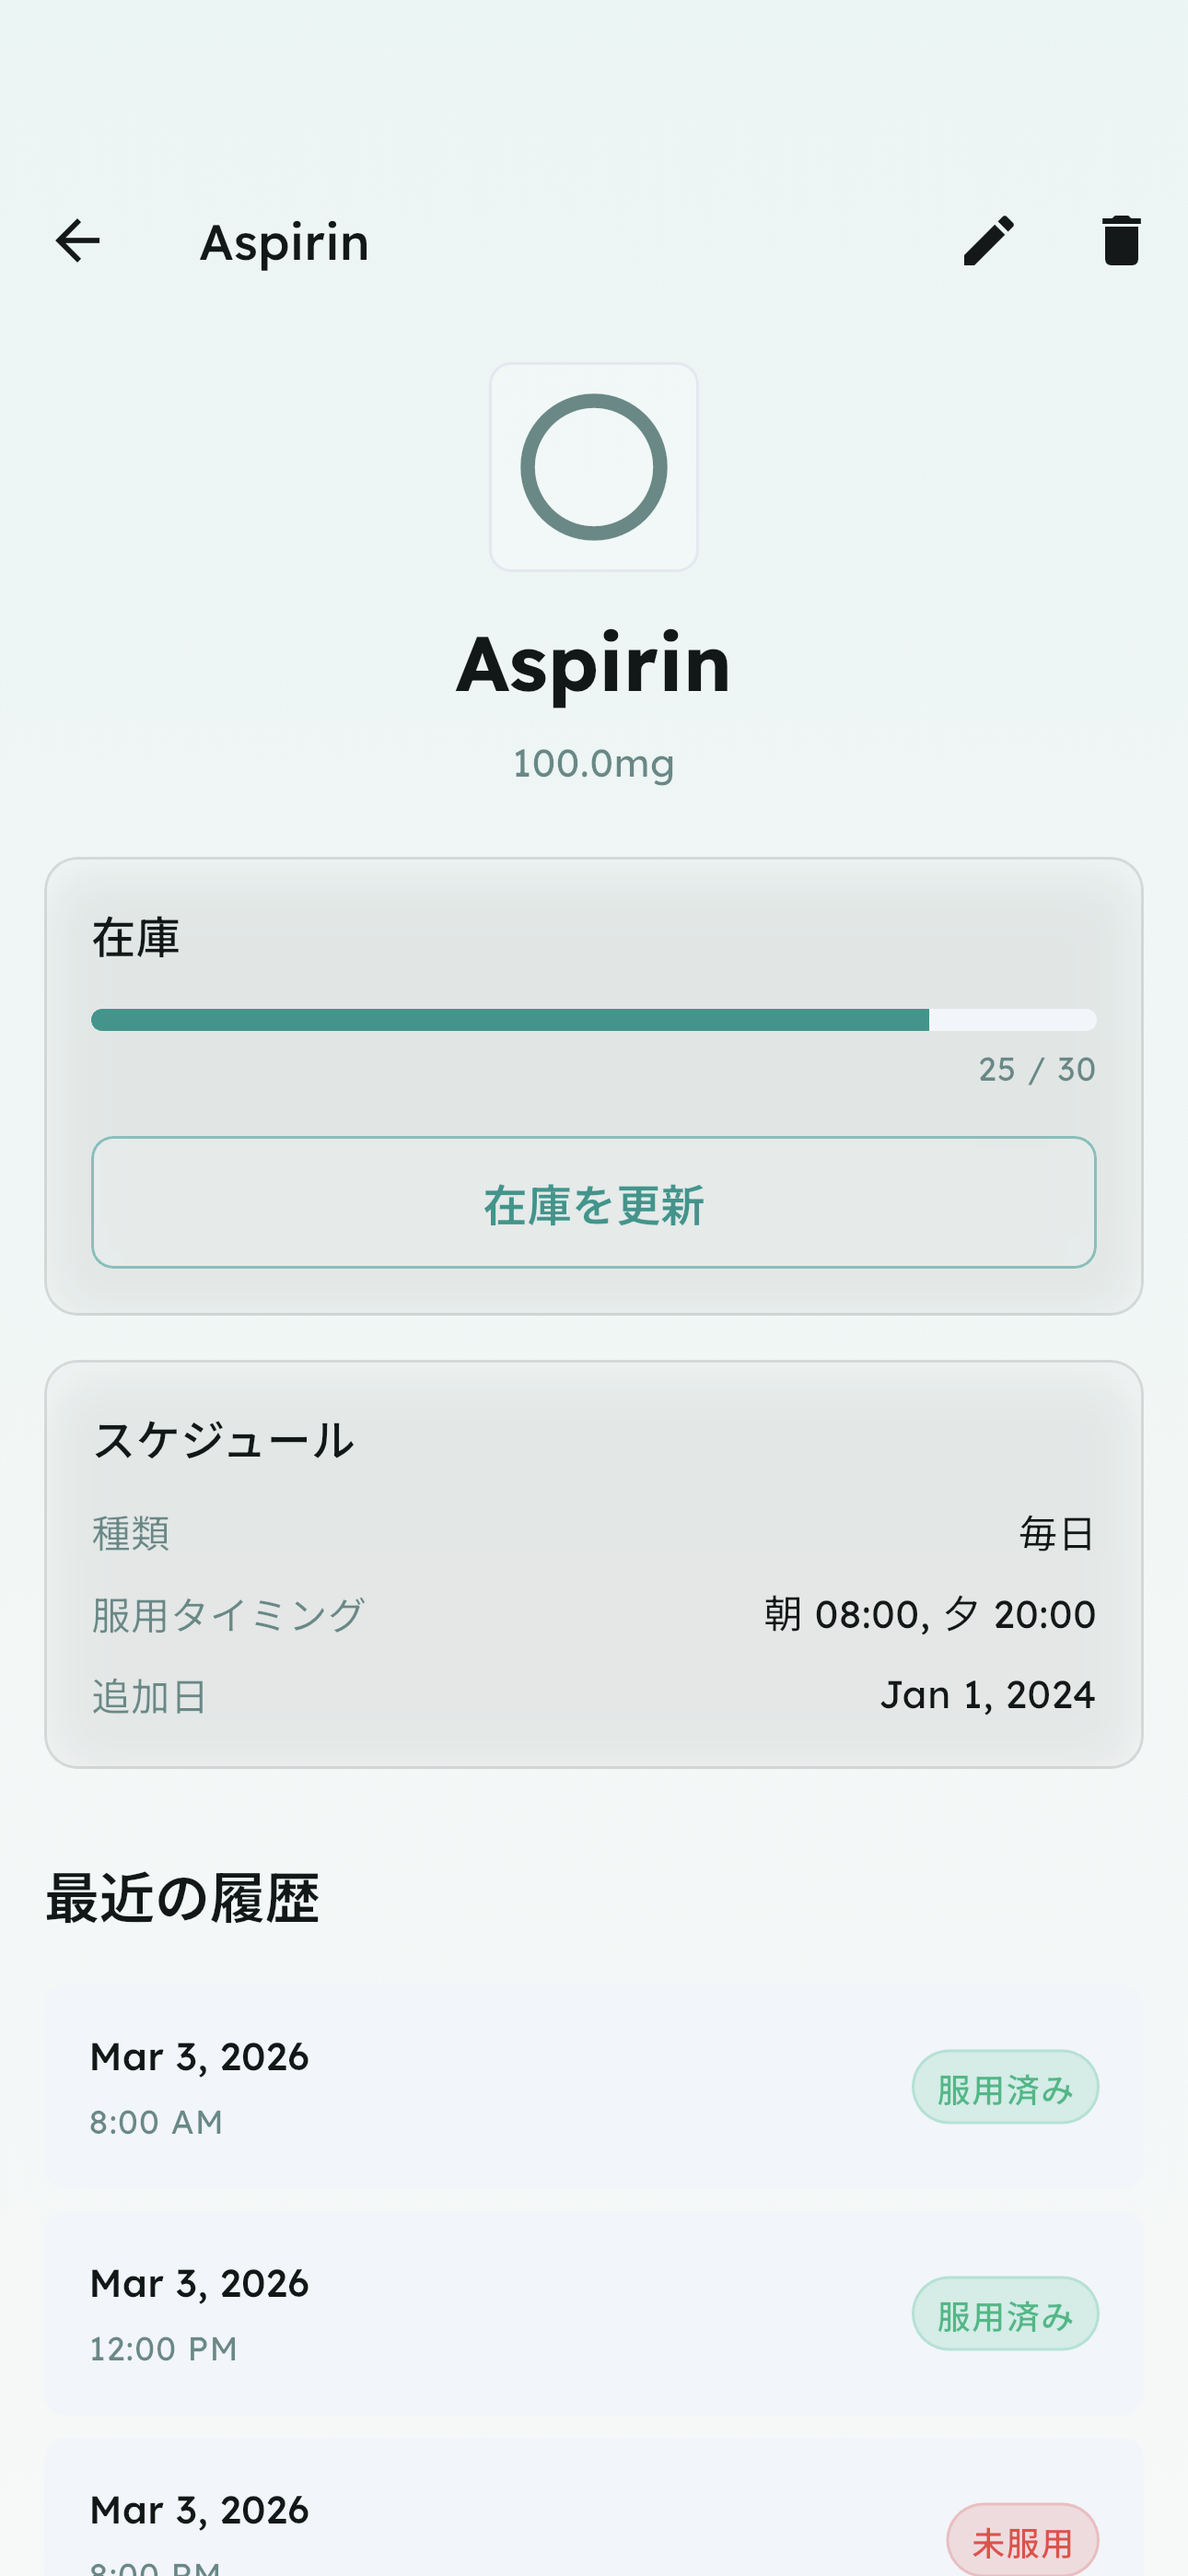
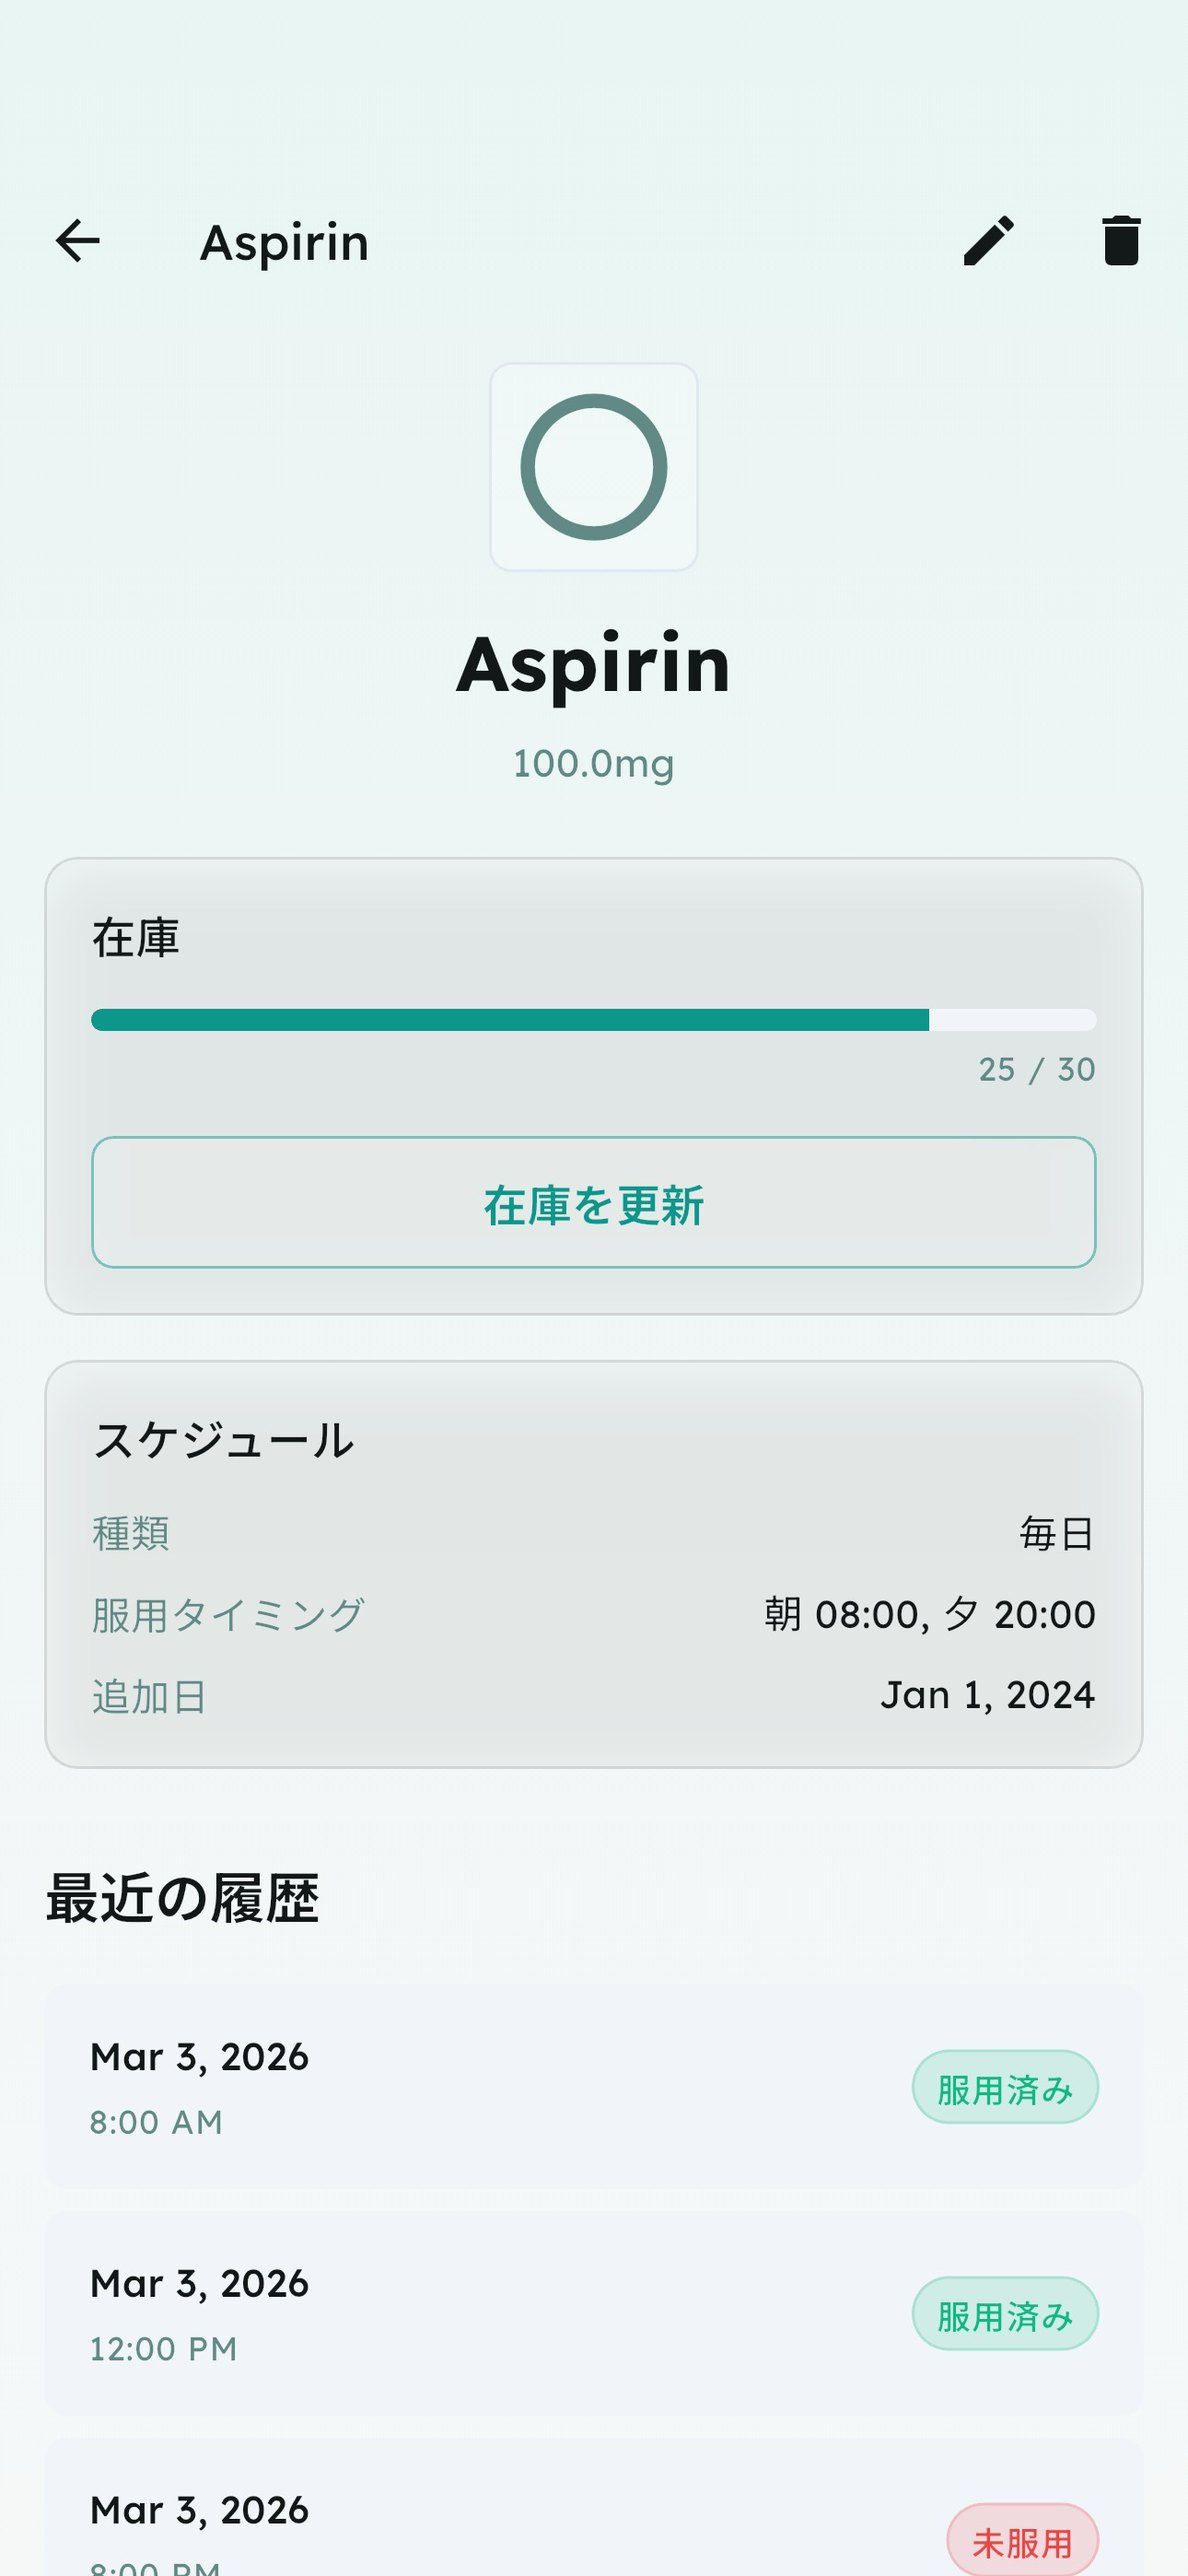
feat: flutter_timezone でデバイスタイムゾーン自動検出 + Riverpod state 修正
- TimezoneService.initialize() で flutter_timezone を使いデバイス TZ を検出・設定
  失敗時は UTC にフォールバック (graceful degradation)
- TimezoneSettings notifier を ref.watch → ref.read + ref.listen に変更
  無関係なプロフィール変更で notifier が再ビルドされるのを防止
- MedicationList: invalidateSelf() → _refreshState() に変更
  .future プロキシの runOnDispose が誤発火する Riverpod assertion を回避
- pubspec.yaml: flutter_timezone ^5.0.1 追加、バージョン 1.0.0+3 へ bump
- timezone_provider_test: ref.listen 挙動のテスト追加
- App Store スクリーンショット全8画面更新 + RGB 版追加

diff --git a/test/data/providers/timezone_provider_test.dart b/test/data/providers/timezone_provider_test.dart
@@ -1,6 +1,8 @@
 import 'package:flutter_riverpod/flutter_riverpod.dart';
 import 'package:flutter_test/flutter_test.dart';
 import 'package:kusuridoki/data/enums/timezone_mode.dart';
+import 'package:kusuridoki/data/models/user_profile.dart';
+import 'package:kusuridoki/data/providers/settings_provider.dart';
 import 'package:kusuridoki/data/providers/timezone_provider.dart';
 import 'package:timezone/data/latest.dart' as tz;
 import 'package:timezone/timezone.dart' as tz_lib;
@@ -107,4 +109,71 @@ void main() {
       expect(state.currentTimezone, 'Europe/Berlin');
     });
   });
+
+  group('TimezoneSettings tracks userSettings homeTimezone via ref.listen', () {
+    late ProviderContainer testContainer;
+
+    setUp(() async {
+      testContainer = ProviderContainer(
+        overrides: [userSettingsProvider.overrideWith(_FakeUserSettings.new)],
+      );
+      addTearDown(testContainer.dispose);
+      await testContainer.read(userSettingsProvider.future);
+    });
+
+    test('homeTimezone updates when profile changes, preserving travel mode state',
+        () async {
+      // Configure travel mode state
+      final notifier = testContainer.read(timezoneSettingsProvider.notifier);
+      notifier.toggleEnabled();
+      notifier.setMode(TimezoneMode.localTime);
+      notifier.setCurrentTimezone('Europe/Berlin');
+
+      var state = testContainer.read(timezoneSettingsProvider);
+      expect(state.homeTimezone, 'America/New_York');
+
+      // Update profile — only homeTimezone changes
+      await testContainer
+          .read(userSettingsProvider.notifier)
+          .updateProfile(const UserProfile(id: 'test', homeTimezone: 'Asia/Tokyo'));
+
+      state = testContainer.read(timezoneSettingsProvider);
+      expect(state.homeTimezone, 'Asia/Tokyo');
+      expect(state.enabled, isTrue);
+      expect(state.mode, TimezoneMode.localTime);
+      expect(state.currentTimezone, 'Europe/Berlin');
+    });
+
+    test('unrelated profile changes do not reset travel mode state', () async {
+      final notifier = testContainer.read(timezoneSettingsProvider.notifier);
+      notifier.toggleEnabled();
+      notifier.setCurrentTimezone('Europe/Berlin');
+
+      // Update profile: homeTimezone unchanged, name changes
+      await testContainer.read(userSettingsProvider.notifier).updateProfile(
+            const UserProfile(
+              id: 'test',
+              homeTimezone: 'America/New_York',
+              name: 'Alice',
+            ),
+          );
+
+      final state = testContainer.read(timezoneSettingsProvider);
+      expect(state.enabled, isTrue);
+      expect(state.homeTimezone, 'America/New_York');
+      expect(state.currentTimezone, 'Europe/Berlin');
+    });
+  });
+}
+
+/// Fake UserSettings notifier — returns a fixed profile without touching storage.
+class _FakeUserSettings extends UserSettings {
+  @override
+  Future<UserProfile> build() async =>
+      const UserProfile(id: 'test', homeTimezone: 'America/New_York');
+
+  @override
+  Future<void> updateProfile(UserProfile profile) async {
+    state = AsyncData(profile);
+  }
 }

diff --git a/lib/data/providers/timezone_provider.dart b/lib/data/providers/timezone_provider.dart
@@ -18,16 +18,32 @@ class TimezoneSettings extends _$TimezoneSettings {
   TimezoneState build() {
     final deviceTimezone = TimezoneService().currentLocation.name;
 
-    // Read home timezone from UserProfile (fallback to device timezone)
-    final userSettingsAsync = ref.watch(userSettingsProvider);
-    final homeTimezone =
-        userSettingsAsync.whenOrNull(data: (profile) => profile.homeTimezone) ??
+    // Read homeTimezone once at init — no subscription, so profile changes
+    // (name, notifications, etc.) don't trigger a full notifier rebuild.
+    final initialHomeTimezone =
+        ref.read(userSettingsProvider).whenOrNull(
+          data: (profile) => profile.homeTimezone,
+        ) ??
         deviceTimezone;
+
+    // Listen for profile changes and update homeTimezone in-place, preserving
+    // enabled / mode / currentTimezone that the user may have already set.
+    ref.listen(userSettingsProvider, (_, next) {
+      final nextHomeTimezone = next.asData?.value.homeTimezone;
+      if (nextHomeTimezone != null && nextHomeTimezone != state.homeTimezone) {
+        state = (
+          enabled: state.enabled,
+          mode: state.mode,
+          homeTimezone: nextHomeTimezone,
+          currentTimezone: state.currentTimezone,
+        );
+      }
+    });
 
     return (
       enabled: false,
       mode: TimezoneMode.fixedInterval,
-      homeTimezone: homeTimezone,
+      homeTimezone: initialHomeTimezone,
       currentTimezone: deviceTimezone,
     );
   }

diff --git a/lib/data/providers/medication_provider.dart b/lib/data/providers/medication_provider.dart
@@ -19,14 +19,14 @@ class MedicationList extends _$MedicationList {
     final storage = ref.read(storageServiceProvider);
     await storage.saveMedication(medication);
     if (!ref.mounted) return;
-    ref.invalidateSelf();
+    await _refreshState();
   }
 
   Future<void> updateMedication(Medication medication) async {
     final storage = ref.read(storageServiceProvider);
     await storage.saveMedication(medication);
     if (!ref.mounted) return;
-    ref.invalidateSelf();
+    await _refreshState();
   }
 
   Future<void> deleteMedication(String id) async {
@@ -34,9 +34,17 @@ class MedicationList extends _$MedicationList {
     final repository = MedicationRepository(storage);
     await repository.deleteMedication(id);
     if (!ref.mounted) return;
-    ref.invalidateSelf();
+    await _refreshState();
     ref.invalidate(todayRemindersProvider);
     ref.invalidate(scheduleListProvider);
+  }
+
+  // Update state directly instead of invalidateSelf() to avoid triggering
+  // runOnDispose on the .future proxy subscription held by downstream
+  // providers (e.g. medicationBreakdownProvider), which causes a Riverpod
+  // internal pause-count assertion (pausedActiveSubscriptionCount mismatch).
+  Future<void> _refreshState() async {
+    state = AsyncData(await ref.read(storageServiceProvider).getAllMedications());
   }
 }
 

diff --git a/lib/data/services/timezone_service.dart b/lib/data/services/timezone_service.dart
@@ -1,3 +1,5 @@
+import 'package:flutter/foundation.dart';
+import 'package:flutter_timezone/flutter_timezone.dart';
 import 'package:timezone/timezone.dart' as tz;
 import 'package:timezone/data/latest_all.dart' as tz_data;
 import 'package:kusuridoki/data/enums/timezone_mode.dart';
@@ -8,6 +10,13 @@ class TimezoneService {
   static Future<void> initialize() async {
     if (!_initialized) {
       tz_data.initializeTimeZones();
+      try {
+        final tzInfo = await FlutterTimezone.getLocalTimezone();
+        tz.setLocalLocation(tz.getLocation(tzInfo.identifier));
+      } catch (e) {
+        // Graceful degradation: keep UTC if device timezone detection fails
+        debugPrint('TimezoneService: failed to detect device timezone: $e');
+      }
       _initialized = true;
     }
   }

diff --git a/android/app/src/main/java/io/flutter/plugins/GeneratedPluginRegistrant.java b/android/app/src/main/java/io/flutter/plugins/GeneratedPluginRegistrant.java
@@ -61,6 +61,11 @@ public final class GeneratedPluginRegistrant {
       Log.e(TAG, "Error registering plugin flutter_secure_storage, com.it_nomads.fluttersecurestorage.FlutterSecureStoragePlugin", e);
     }
     try {
+      flutterEngine.getPlugins().add(new net.wolverinebeach.flutter_timezone.FlutterTimezonePlugin());
+    } catch (Exception e) {
+      Log.e(TAG, "Error registering plugin flutter_timezone, net.wolverinebeach.flutter_timezone.FlutterTimezonePlugin", e);
+    }
+    try {
       flutterEngine.getPlugins().add(new io.flutter.plugins.googlemobileads.GoogleMobileAdsPlugin());
     } catch (Exception e) {
       Log.e(TAG, "Error registering plugin google_mobile_ads, io.flutter.plugins.googlemobileads.GoogleMobileAdsPlugin", e);
@@ -84,11 +89,6 @@ public final class GeneratedPluginRegistrant {
       flutterEngine.getPlugins().add(new dev.britannio.in_app_review.InAppReviewPlugin());
     } catch (Exception e) {
       Log.e(TAG, "Error registering plugin in_app_review, dev.britannio.in_app_review.InAppReviewPlugin", e);
-    }
-    try {
-      flutterEngine.getPlugins().add(new dev.flutter.plugins.integration_test.IntegrationTestPlugin());
-    } catch (Exception e) {
-      Log.e(TAG, "Error registering plugin integration_test, dev.flutter.plugins.integration_test.IntegrationTestPlugin", e);
     }
     try {
       flutterEngine.getPlugins().add(new com.github.dart_lang.jni.JniPlugin());
